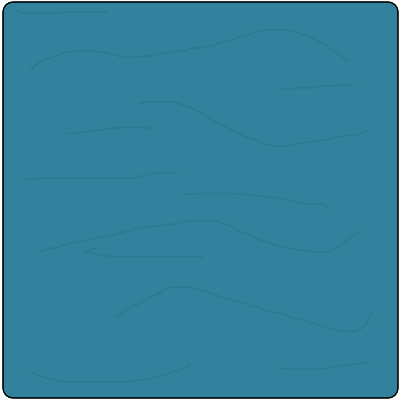
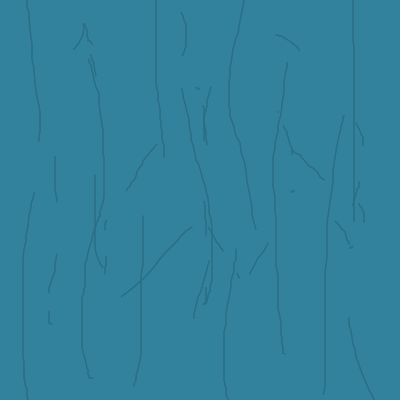
Save

Changed region(s): [[0.0, 0.0, 1.0, 1.0]]

diff --git a/Client/html/shell_minimal.html b/Client/html/shell_minimal.html
@@ -3,7 +3,7 @@
   <head>
     <meta charset="utf-8">
     <meta http-equiv="Content-Type" content="text/html; charset=utf-8">
-    <title>Emscripten-Generated Code</title>
+    <title>Journey of Dreams</title>
     <style>
       body { margin: 0; padding: 0;}
       html,

diff --git a/Server/ServerSource/ServerCore/UserGameInstance/GUICore/GUIPanel.cpp b/Server/ServerSource/ServerCore/UserGameInstance/GUICore/GUIPanel.cpp
@@ -6,6 +6,7 @@
 
 #include "GUIPanel.hpp"
 #include "ServerCore/Net/InstructionsSending.hpp"
+#include "ServerCore/ServerWide/EngineGet.hpp"
 
 namespace JoD {
 
@@ -15,13 +16,111 @@ GUIPanel::GUIPanel(BoxF bounds)
 void GUIPanel::RenderDerived(UserID userID) const {
     
 // Draw the background image.
-    SendImageDrawInstruction(userID, "GUIPanelBground", GetBounds());
+    SendImageRepeatDrawInstruction(
+        userID, "GUIPanelBground", GetInnerBounds(userID),
+        {m_size.w, m_size.w*m_size.h/m_size.w});
+    
+    auto boundsLeftBorder = BoxF {GetOuterBounds().x,
+                                  GetOuterBounds().y + m_borderWidth * _<EngineGet>().GetAspectRatio(userID).value(),
+                                  m_borderWidth,
+                                  GetOuterBounds().h - 2*m_borderWidth * _<EngineGet>().GetAspectRatio(userID).value()};
+    
+    SendImageRepeatDrawInstruction(
+        userID, "GUIBorderVertical", boundsLeftBorder,
+        {1.0f, boundsLeftBorder.h/boundsLeftBorder.w});
+    
+    auto boundsRightBorder = BoxF {GetOuterBounds().x + GetOuterBounds().w -
+                                   m_borderWidth,
+                                   GetOuterBounds().y + m_borderWidth * _<EngineGet>().GetAspectRatio(userID).value(),
+                                   m_borderWidth,
+                                   GetOuterBounds().h - 2*m_borderWidth * _<EngineGet>().GetAspectRatio(userID).value()};
+    
+    SendImageRepeatDrawInstruction(
+        userID, "GUIBorderVertical", boundsRightBorder,
+        {1.0f, boundsRightBorder.h/boundsRightBorder.w});
+    
+    auto boundsTopBorder = BoxF {GetOuterBounds().x + m_borderWidth,
+                                 GetOuterBounds().y,
+                                 GetOuterBounds().w - 2*m_borderWidth,
+                                 m_borderWidth * _<EngineGet>().GetAspectRatio(
+                                     userID).value()};
+    
+    SendImageRepeatDrawInstruction(
+        userID, "GUIBorderHorizontal", boundsTopBorder,
+        {boundsTopBorder.w/boundsTopBorder.h, 1.0f});
+    
+    auto boundsBottomBorder = BoxF {GetOuterBounds().x + m_borderWidth,
+                                    GetOuterBounds().y + GetOuterBounds().h -
+                                    m_borderWidth*
+                                    _<EngineGet>().GetAspectRatio(
+                                        userID).value(),
+                                    GetOuterBounds().w - 2*m_borderWidth,
+                                    m_borderWidth * _<EngineGet>().
+                                    GetAspectRatio(userID).value()};
+    
+    SendImageRepeatDrawInstruction(
+        userID, "GUIBorderHorizontal", boundsBottomBorder,
+        {boundsBottomBorder.w/boundsBottomBorder.h, 1.0f});
+    
+    
+    auto boundsTopLeftCorner = BoxF {GetOuterBounds().x,
+                                     GetOuterBounds().y,
+                                     m_borderWidth,
+                                     m_borderWidth * _<EngineGet>().
+                                     GetAspectRatio(userID).value()};
+    
+    SendImageDrawInstruction(
+        userID, "GUIBorderTopLeft", boundsTopLeftCorner);
+    
+    
+    auto boundsTopRightCorner = BoxF {GetOuterBounds().x + GetOuterBounds().w -
+                                      m_borderWidth,
+                                      GetOuterBounds().y,
+                                      m_borderWidth,
+                                      m_borderWidth * _<EngineGet>().
+                                      GetAspectRatio(userID).value()};
+    SendImageDrawInstruction(
+        userID, "GUIBorderTopRight", boundsTopRightCorner);
+    
+    
+    auto boundsBottomLeftCorner = BoxF {GetOuterBounds().x,
+                                        GetOuterBounds().y +
+                                        GetOuterBounds().h - m_borderWidth* _<EngineGet>().
+                                        GetAspectRatio(userID).value(),
+                                        m_borderWidth,
+                                        m_borderWidth * _<EngineGet>().
+                                        GetAspectRatio(userID).value()};
+    SendImageDrawInstruction(
+        userID, "GUIBorderBottomLeft", boundsBottomLeftCorner);
+    
+    
+    auto boundsBottomRightCorner = BoxF {GetOuterBounds().x +
+                                         GetOuterBounds().w - m_borderWidth,
+                                         GetOuterBounds().y+
+                                         GetOuterBounds().h - m_borderWidth* _<EngineGet>().
+                                         GetAspectRatio(userID).value(),
+                                         m_borderWidth,
+                                         m_borderWidth * _<EngineGet>().
+                                         GetAspectRatio(userID).value()};
+    SendImageDrawInstruction(
+        userID, "GUIBorderBottomRight", boundsBottomRightCorner);
 }
 
-BoxF GUIPanel::GetBounds() const {
+BoxF GUIPanel::GetInnerBounds(UserID userID) const {
     
 // Combine position and size to create bounds.
-    return {m_position.x, m_position.y, m_size.w, m_size.h};
+    return {m_position.x + m_borderWidth,
+            m_position.y + m_borderWidth *
+            _<EngineGet>().GetAspectRatio(userID).value(),
+            m_size.w - 2*m_borderWidth,
+            m_size.h - 2*m_borderWidth *
+            _<EngineGet>().GetAspectRatio(userID).value()};
+}
+
+BoxF GUIPanel::GetOuterBounds() const {
+    
+    return {m_position.x, m_position.y,
+            m_size.w, m_size.h};
 }
 
 }

diff --git a/Server/ServerSource/ServerCore/Net/InstructionsSending.cpp b/Server/ServerSource/ServerCore/Net/InstructionsSending.cpp
@@ -52,6 +52,41 @@ void SendImageDrawInstruction(
     webSocket->write(boost::asio::buffer(data));
 }
 
+void SendImageRepeatDrawInstruction(
+    UserID userID, std::string_view imageName,
+    BoxF dest, SizeF textureFillAmount) {
+        
+// Get websocket object for user.
+    auto webSocket = _<EngineGet>().GetWebSocket(userID);
+    
+// Use message code for drawing images.
+    const auto messageCode = MessageCodes::k_drawImageRepeatInstruction;
+    
+// Get destination rectangle values.
+    const auto x = (int)(dest.x * NetConstants::k_floatPrecision);
+    const auto y = (int)(dest.y * NetConstants::k_floatPrecision);
+    const auto w = (int)(dest.w * NetConstants::k_floatPrecision);
+    const auto h = (int)(dest.h * NetConstants::k_floatPrecision);
+    auto textureFillW = (int)(textureFillAmount.w * NetConstants::k_floatPrecision);
+    auto textureFillH = (int)(textureFillAmount.h * NetConstants::k_floatPrecision);
+    
+// To hold the data to send.
+    auto data = std::vector<int>();
+    
+// Fill data with content.
+    data.push_back(messageCode);
+    data.push_back(Hash(imageName));
+    data.push_back(x);
+    data.push_back(y);
+    data.push_back(w);
+    data.push_back(h);
+    data.push_back(textureFillW);
+    data.push_back(textureFillH);
+    
+// Send the data.
+    webSocket->write(boost::asio::buffer(data));
+}
+
 void SendTextDrawInstruction(
     UserID userID,
     std::string_view text,

diff --git a/Client/ClientSource/ClientCore/Net/WSServerConnection.cpp b/Client/ClientSource/ClientCore/Net/WSServerConnection.cpp
@@ -306,7 +306,34 @@ void ProcessIncomingMessage(unsigned char *bytes) {
         
 // Add the complete instruction.
         _<DrawInstructionsManager>().AddImageDrawInstruction(
-            imageNameHash, {x, y, w, h});
+            imageNameHash, {x, y, w, h}, false);
+        
+        break;
+    }
+    case MessageCodes::k_drawImageRepeatInstruction: {
+        
+// Next 4 bytes contains the image name hash code.
+        auto imageNameHash = ReadFourBytesAsInt(bytes + 4);
+        
+// Next 4 bytes contains the x coordinate.
+        auto x = ReadFourBytesAsFloat(bytes + 8);
+        
+// Next 4 bytes contains the y coordinate.
+        auto y = ReadFourBytesAsFloat(bytes + 12);
+        
+// Next 4 bytes contains the width.
+        auto w = ReadFourBytesAsFloat(bytes + 16);
+        
+// Next 4 bytes contains the height.
+        auto h = ReadFourBytesAsFloat(bytes + 20);
+        
+        auto textureFillW = ReadFourBytesAsFloat(bytes + 24);
+        
+        auto textureFillH = ReadFourBytesAsFloat(bytes + 28);
+        
+// Add the complete instruction.
+        _<DrawInstructionsManager>().AddImageDrawInstruction(
+            imageNameHash, {x, y, w, h}, true, {textureFillW, textureFillH});
         
         break;
     }

diff --git a/Client/ClientSource/ClientCore/DrawInstructions/DrawInstructionsManager.cpp b/Client/ClientSource/ClientCore/DrawInstructions/DrawInstructionsManager.cpp
@@ -29,7 +29,7 @@ DrawInstructionsManager::DrawInstructionsManager() {
 
 void DrawInstructionsManager::AddImageDrawInstruction(
     int imageNameHash,
-    BoxF destination) {
+    BoxF destination, bool repeatTexture, SizeF textureFillAmount) {
     
 // Create empty image draw instruction.
     auto newInstr = std::make_unique<ImageDrawInstruction>();
@@ -41,6 +41,8 @@ void DrawInstructionsManager::AddImageDrawInstruction(
         ++);
     newInstr->imageNameHash = imageNameHash;
     newInstr->destination = destination;
+    newInstr->repeatTexture = repeatTexture;
+    newInstr->textureFillAmount = textureFillAmount;
     
 // Add to inactive buffer.
     m_inactiveBuffer->push_back(std::move(newInstr));
@@ -94,7 +96,9 @@ void DrawInstructionsManager::ExecuteInstructions() const {
             _<ImageRenderer>().DrawImage(
                 casted->rid,
                 casted->imageNameHash,
-                casted->destination);
+                casted->destination,
+                casted->repeatTexture,
+                casted->textureFillAmount);
             
             break;
         }

diff --git a/Client/ClientSource/ClientCore/DrawInstructions/DrawInstructionsManager.hpp b/Client/ClientSource/ClientCore/DrawInstructions/DrawInstructionsManager.hpp
@@ -27,7 +27,9 @@ class DrawInstructionsManager {
     /// @param imageNameHash Hash code of image name to draw.
     /// @param destination Destination rectangle to draw the image at.
     ///
-    void AddImageDrawInstruction(int imageNameHash, BoxF destination);
+    void AddImageDrawInstruction(int imageNameHash, BoxF destination,
+                                 bool repeatTexture,
+                                 SizeF textureFillAmount = {1.0f, 1.0f});
     
     void AddTextDrawInstruction
         (std::string_view text, PointF position,

diff --git a/Client/ClientSource/Main.cpp b/Client/ClientSource/Main.cpp
@@ -12,7 +12,7 @@ int main(int argc, char *argv[]) {
     try{
         
 // Run new instance of the game.
-        JoD::RunNewClientInstance();
+        JoD::RunNewClientInstance();  
     }
     catch (const std::exception &e){
         
@@ -21,7 +21,7 @@ int main(int argc, char *argv[]) {
 // An exception occured, exit game.
         return EXIT_FAILURE;
     }
-    
-// No exceptions occured.
-    return EXIT_SUCCESS;
+     
+// No exceptions occured. 
+    return EXIT_SUCCESS; 
 }

diff --git a/Server/ServerSource/ServerCore/Net/InstructionsSending.hpp b/Server/ServerSource/ServerCore/Net/InstructionsSending.hpp
@@ -32,6 +32,10 @@ void SendImageDrawInstruction(
     int imageNamehash,
     BoxF dest);
 
+void SendImageRepeatDrawInstruction(
+    UserID userID, std::string_view imageName,
+    BoxF dest, SizeF textureFillAmount);
+
 ///
 /// Send a text drawing instruction to the user.
 ///
@@ -70,5 +74,5 @@ void SendRequestImageDimensions(
 void SendRequestImageDimensions(
     UserID userID,
     std::string_view imageName);
-    
+
 }

diff --git a/Server/ServerSource/ServerCore/UserGameInstance/GUICore/GUIPanel.hpp b/Server/ServerSource/ServerCore/UserGameInstance/GUICore/GUIPanel.hpp
@@ -38,11 +38,15 @@ class GUIPanel : public GUIComponent {
     ///
     /// @return BoxF Panel bounds.
     ///
-    BoxF GetBounds() const;
+    BoxF GetInnerBounds(UserID userID) const;
+    
+    BoxF GetOuterBounds() const;
     
     // Members
     
     SizeF m_size;     ///< Size of the panel in canvas.
+    
+    const float m_borderWidth {0.005f};
 };
 
 }

diff --git a/Shared/SharedNetSource/MessageCodes.hpp b/Shared/SharedNetSource/MessageCodes.hpp
@@ -24,6 +24,7 @@ constexpr int k_requestImageDimensions {8}; ///< Server request image dimensions
 constexpr int k_provideImageDimensions {9}; ///< Client provides requested image dimensions to server.
 constexpr int k_leftMouseUp {10};
 constexpr int k_rightMouseUp {11};
+constexpr int k_drawImageRepeatInstruction {12};
 
 }
 }

diff --git a/Client/ClientSource/ClientCore/DrawInstructions/ImageDrawInstruction.hpp b/Client/ClientSource/ClientCore/DrawInstructions/ImageDrawInstruction.hpp
@@ -19,6 +19,10 @@ struct ImageDrawInstruction : public IDrawInstruction {
     int imageNameHash {0};     ///<Hash code of image name to draw.
     
     BoxF destination;          ///< Destination rectangle to draw the image at.
+    
+    bool repeatTexture;
+    
+    SizeF textureFillAmount;
 };
 
 }
